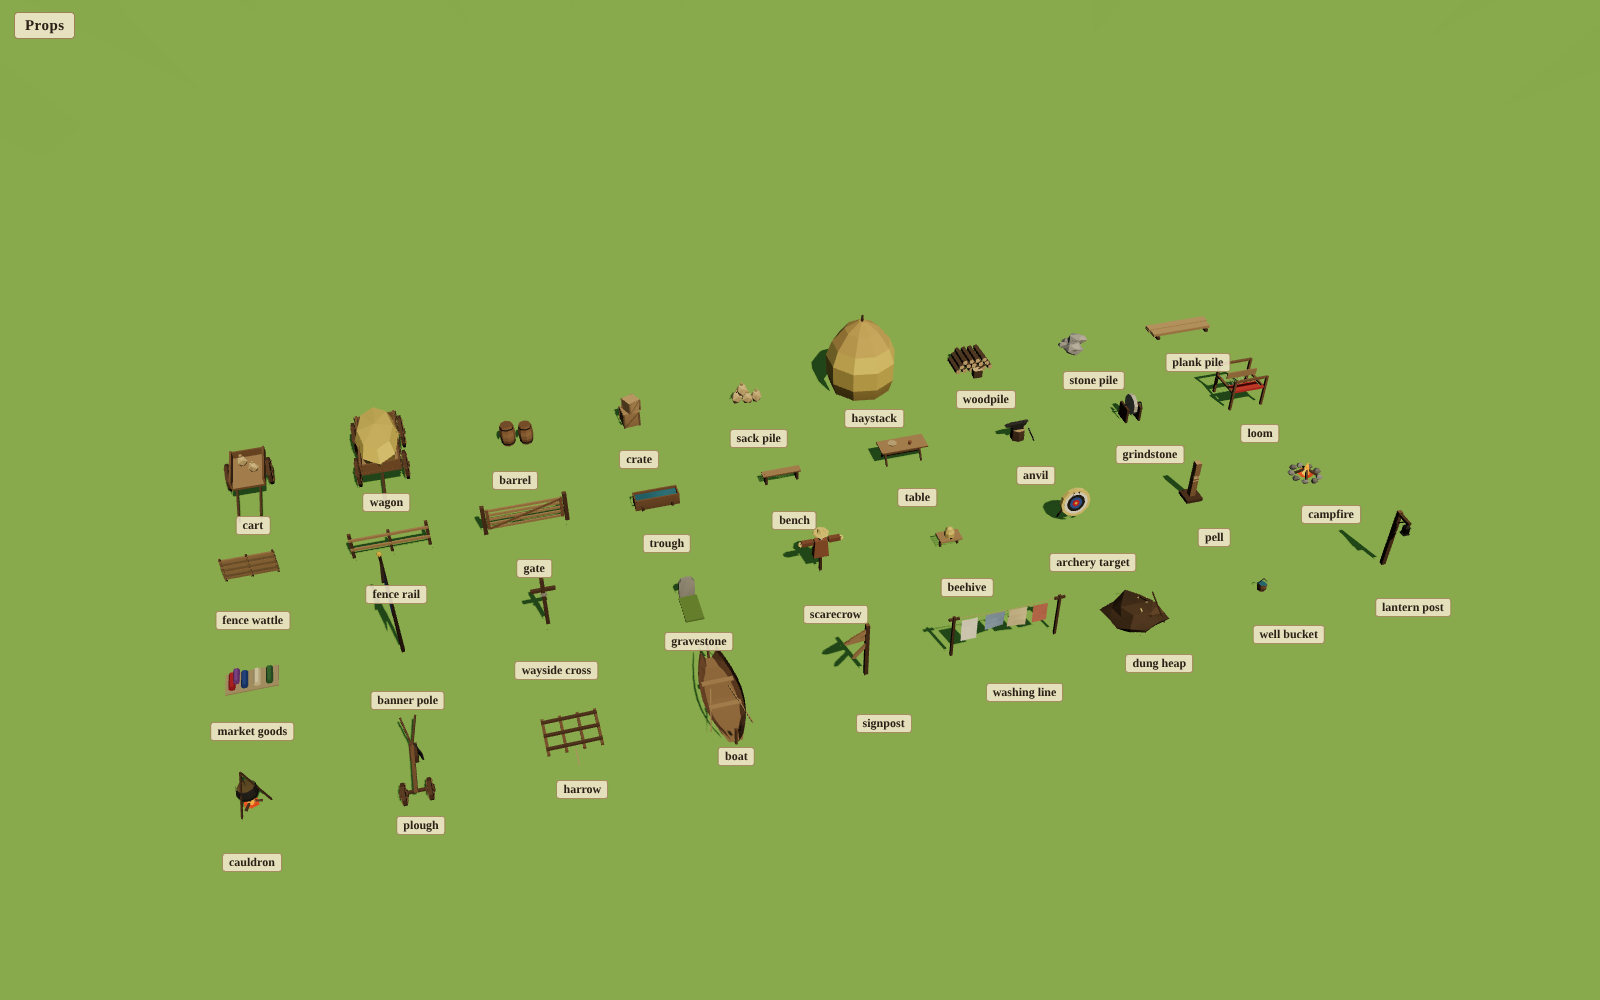
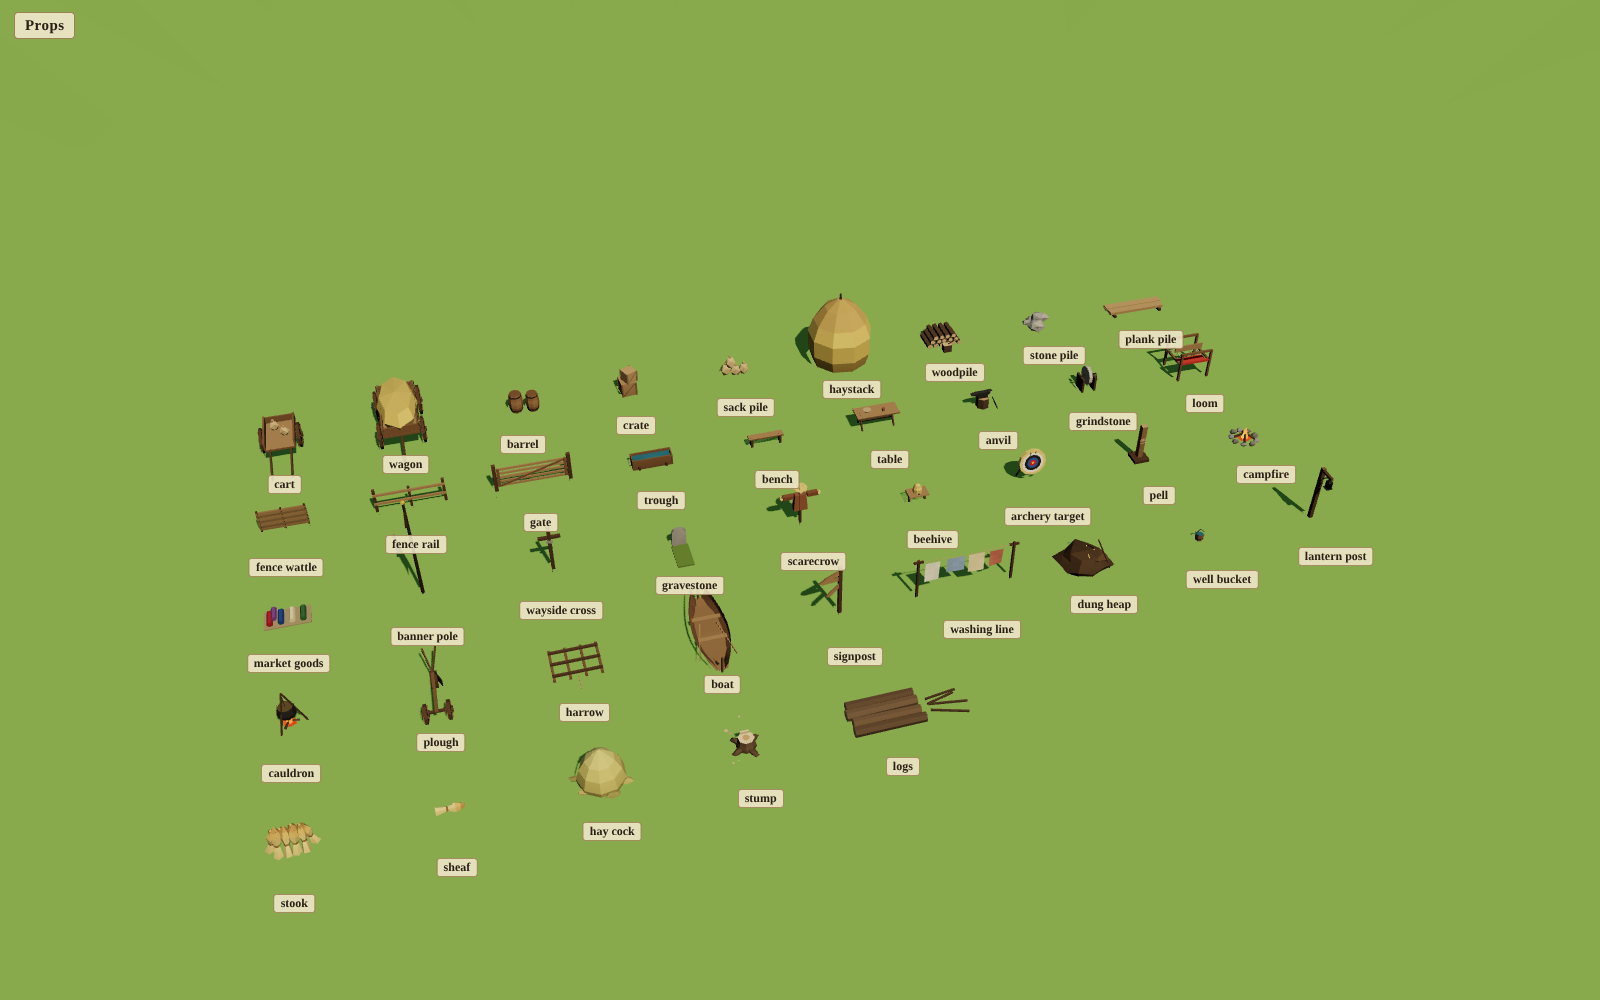
Clarity screenshots (docs/render/clarity-*: before/after village and fields, reaping and ploughing near and far, mowing, felled tree, beacon far/near/night, crowd nameplates, piles, hover outlines); props sheet with the new kinds; mowing preset; plates kept on screen
Claude-Session: https://claude.ai/code/session_01P3U377cwAZKJY4Szz9RJL8

Changed region(s): [[0.125, 0.279, 0.9062, 0.93], [0.7812, 0.62, 0.8438, 0.651], [0.2812, 0.837, 0.3125, 0.899]]

diff --git a/src/render/feedback/nameplates.ts b/src/render/feedback/nameplates.ts
@@ -92,13 +92,13 @@ export function isSpeech(label: string): boolean {
 interface Cand { it: CharacterDrawItem; d: number; pri: number; text: boolean; sub: boolean; focus: boolean; speech: boolean; sx: number; sy: number }
 
 /** One plate to show: whose, which form, and a lift in px (a spoken line clearing a plate in front). */
-export interface PlateLayout { it: CharacterDrawItem; mode: 'full' | 'name' | 'mark'; focus: boolean; speech: boolean; d: number; dy: number }
+export interface PlateLayout { it: CharacterDrawItem; mode: 'full' | 'name' | 'mark'; focus: boolean; speech: boolean; d: number; dy: number; dx: number }
 
 /** Plate choice for one frame (pure; exported for tests). `project` returns CSS px or null when off screen. */
 export function layoutPlates(
   chars: readonly CharacterDrawItem[], cam: { x: number; y: number; z: number }, focusId: number,
   project: (x: number, y: number, z: number) => { x: number; y: number } | null,
-  occluded: ((it: CharacterDrawItem, h: number) => boolean) | null, max = MAX_PLATES,
+  occluded: ((it: CharacterDrawItem, h: number) => boolean) | null, max = MAX_PLATES, screenW = Infinity,
 ): PlateLayout[] {
   const cands: Cand[] = [];
   for (const it of chars) {
@@ -149,7 +149,9 @@ export function layoutPlates(
       for (const mode of tries) {
         const w = mode === 'mark' ? 18 * k : Math.max(nameW, mode === 'full' ? subW : 0);
         const hh = mode === 'mark' ? markH : markH + (15 * lines + (mode === 'full' ? 13 : 0)) * k + 4;
-        const x0 = c.sx - w / 2, x1 = c.sx + w / 2;
+        // keep the plate on screen (someone at the edge of the view keeps a whole plate)
+        const dx = c.sx - w / 2 < 4 ? 4 - (c.sx - w / 2) : c.sx + w / 2 > screenW - 4 ? screenW - 4 - (c.sx + w / 2) : 0;
+        const x0 = c.sx + dx - w / 2, x1 = c.sx + dx + w / 2;
         let y1 = c.sy, dy = 0;
         if (!c.focus && hit(x0, y1 - hh, x1, y1)) {
           // a spoken line steps up over what is in the way (twice at most); names give way instead
@@ -159,7 +161,7 @@ export function layoutPlates(
           dy = y1 - c.sy;
         }
         boxes.push({ x0, y0: y1 - hh, x1, y1 });
-        out.push({ it, mode, focus: c.focus, speech: c.speech, d: c.d, dy });
+        out.push({ it, mode, focus: c.focus, speech: c.speech, d: c.d, dy, dx });
         placed = true;
         break;
       }
@@ -235,7 +237,7 @@ export class Nameplates {
       this.v.set(x, y, z).project(camera);
       if (this.v.z > 1 || this.v.z < -1 || Math.abs(this.v.x) > 1.1 || Math.abs(this.v.y) > 1.1) return null;
       return { x: (this.v.x * 0.5 + 0.5) * width, y: (-this.v.y * 0.5 + 0.5) * height };
-    }, occ ? cached : null) : [];
+    }, occ ? cached : null, MAX_PLATES, width) : [];
     this.shown = layout.length;
     for (let i = 0; i < this.plates.length; i++) {
       const p = this.plates[i];
@@ -259,7 +261,7 @@ export class Nameplates {
       const tone = TONE_COLORS[it.labelTone ?? 'stranger'] ?? TONE_COLORS.stranger;
       if (p.tone !== tone) { p.obj.element.style.setProperty('--tone', tone); p.tone = tone; }
       const k = plateScale(l.d, l.focus).toFixed(2);
-      const tf = l.dy ? `translateY(${Math.round(l.dy)}px) scale(${k})` : `scale(${k})`;
+      const tf = l.dy || l.dx ? `translate(${Math.round(l.dx)}px, ${Math.round(l.dy)}px) scale(${k})` : `scale(${k})`;
       if (p.scale !== tf) { p.inner.style.transform = tf; p.scale = tf; }
       // fade in over the last few metres of the range
       const range = l.focus ? FOCUS_RANGE : l.mode === 'mark' ? MARK_RANGE : Math.max(it.labelRange ?? DEFAULT_LABEL_RANGE, l.speech ? SPEECH_RANGE : 0);

diff --git a/src/render/worldViewer.ts b/src/render/worldViewer.ts
@@ -333,6 +333,27 @@ const CLARITY_PRESETS: Record<string, PresetDef> = {
     season: 1, day: 9, time: 0.62, weather: 'clear',
     camera: (c) => { const s = workScene(c); return stripView(c, s.a, s.front, 36, 15, 24, 0, 4); },
   },
+  /** Mowing a grass strip: the mown part pale with the hay raked into windrows, hay cocks set up behind the mower. */
+  mow: {
+    season: 1, day: 4, time: 0.6, weather: 'clear',
+    camera: (c) => {
+      const { a, b } = workStrips(c);
+      const wA = 0.52;
+      c.v.setStrip(a.id, { state: 'fallow', crop: 'fallow', growth: 0, task: 'mow', work: wA });
+      if (b) c.v.setStrip(b.id, { state: 'fallow', crop: 'fallow', growth: 0 });
+      const yaw = Math.atan2(a.ax, a.az);
+      // hay cocks set up behind the mower, the nearest a few metres back
+      for (let s = wA * a.length - 7, k = 0; s > 4; s -= 9, k++) {
+        const p = a.at(k % 2 ? 0.32 : 0.68, s / a.length);
+        c.v.addProp({ kind: 'hay_cock', x: p.x, z: p.z, rot: s, scale: 0.9 + (k % 3) * 0.06 });
+      }
+      const front = a.at(0.5, wA);
+      c.v.teleportAvatar(front.x - a.ax * 0.8 + a.bx * 1.5, front.z - a.az * 0.8 + a.bz * 1.5, yaw);
+      c.v.holdAnim = 'work_scythe';
+      c.v.avatar.mainHand = 'scythe';
+      return stripView(c, a, front, 15, 4.5, 11, 0.6, -5);
+    },
+  },
   /** A felled tree: the stump with fresh chips and the trunk sawn into logs; a level-up rises. */
   felled: {
     season: 2, day: 2, time: 0.45, weather: 'clear',

diff --git a/src/render/feedback/beacons.ts b/src/render/feedback/beacons.ts
@@ -10,7 +10,7 @@ import type { WorldMarker } from '../../core/view';
 
 const MAX = 12;
 /** Pillar height (m) and width at the base for the primary and the secondary markers; least width on screen (px). */
-const PRIMARY_H = 46, PRIMARY_W = 2.6, PRIMARY_PX = 16;
+const PRIMARY_H = 46, PRIMARY_W = 2.6, PRIMARY_PX = 12;
 const SECONDARY_H = 9, SECONDARY_W = 0.9, SECONDARY_PX = 5;
 /** The beacon is gone when the player stands within ARRIVE m, and back by ARRIVE_FULL m. */
 const ARRIVE = 2.5, ARRIVE_FULL = 7;
@@ -226,7 +226,7 @@ export class BeaconLayer {
         this.c.setHex(mk.color);
         // shaft
         this.sBase.setXYZ(n, mk.x, ground + (isP ? 0 : lift), mk.z);
-        this.sShape.setXYZW(n, isP ? PRIMARY_H + Math.min(40, camD * 0.06) : SECONDARY_H, isP ? PRIMARY_W : SECONDARY_W, alpha, isP ? PRIMARY_PX : SECONDARY_PX);
+        this.sShape.setXYZW(n, isP ? PRIMARY_H + Math.min(160, camD * 0.08) : SECONDARY_H, isP ? PRIMARY_W : SECONDARY_W, alpha, isP ? PRIMARY_PX : SECONDARY_PX);
         this.sColor.setXYZ(n, this.c.r, this.c.g, this.c.b);
         // ground ring (people markers float over the head: no ring)
         const ringR = isP ? 2.4 + 0.15 * Math.sin(this.time * 2.2) : 1.1;

diff --git a/src/render/fields.ts b/src/render/fields.ts
@@ -519,8 +519,9 @@ float mlAA = 0.0;
 
   /** Hide (or restore) a strip's cuttable plants behind the drawn boundary. */
   private applyCut(g: StripGeom): void {
-    if (!g.cut) return;
-    const at = g.task && CUTTING.has(g.task) ? g.shown * g.length : 0;
+    // outside a reap/mow the crop rebuild decides what stands (a finished harvest must not grow back)
+    if (!g.cut || !g.task || !CUTTING.has(g.task)) return;
+    const at = g.shown * g.length;
     if (Math.abs(at - g.cutAt) < 1e-3) return;
     g.cutAt = at;
     const touched = new Map<THREE.InstancedMesh, [number, number]>();
